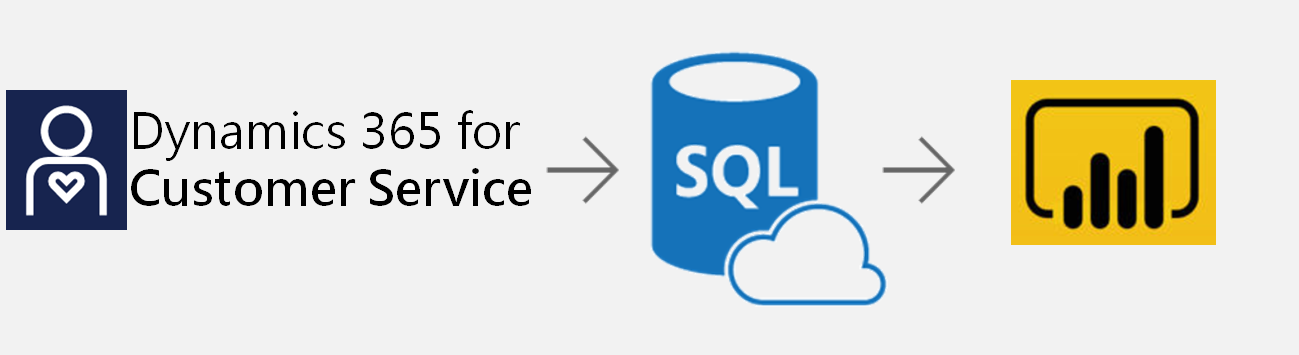
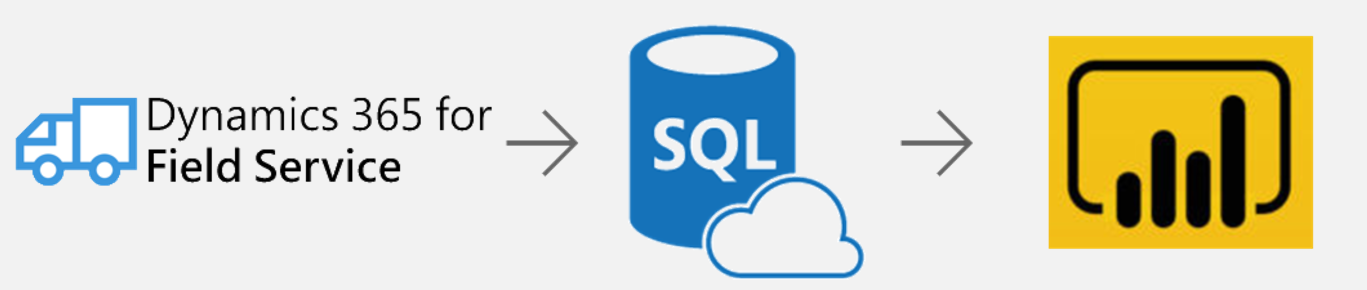
documentation

Changed region(s): [[0.0, 0.0621, 0.739, 0.9621], [0.7698, 0.1241, 0.9854, 0.869], [0.6774, 0.7759, 0.7082, 0.8379]]

diff --git a/Source/Apps/Microsoft/Released/Microsoft-D365FieldService/README.MD b/Source/Apps/Microsoft/Released/Microsoft-D365FieldService/README.MD
@@ -1,4 +1,4 @@
-# Power BI Dynamics 365 Customer Service Solution Template Documentation
+# Power BI Dynamics 365 Field Service Solution Template Documentation
 # Table of Contents
 1. [Introduction](#introduction)
 2. [Architecture](#architecture)
@@ -7,13 +7,13 @@
 5. [Technical Description](#technical-description)
 
 # Introduction
-Create a scalable, secure and flexible PowerBI dashboard on Dynamics 365 with the Power BI Customer Service solution template for Dynamics 365. The template creates everything required for an end-to-end analytics solution on your Dynamics 365 org including the data extraction, database constructs, and a Power BI report bound to the database. You can extend or customize the result to accommodate your own business requirements.
-The Customer Service solution template for Dynamics 365 is intended for customers who:
+Create a scalable, secure and flexible PowerBI dashboard on Dynamics 365 with the Power BI Field Service solution template for Dynamics 365. The template creates everything required for an end-to-end analytics solution on your Dynamics 365 org including the data extraction, database constructs, and a Power BI report bound to the database. You can extend or customize the result to accommodate your own business requirements.
+The Field Service solution template for Dynamics 365 is intended for customers who:
 -	Want to provision an analytics solution for tens or even thousands of users
 -	Want to deploy an analytics solution that scales with any size of Dynamics 365 instance from small to very large
 -	Want to be able to create data mashups on Dynamics 365 with data from their ERP, marketing, inventory management or other any other application
-The Customer Service solution template for Dynamics 365 is targeted at sales executives, managers and salespeople to forecast revenue, compare sales to the same period in the prior month, quarter or year, track sales against goals and monitor their pipeline .
-This document describes how to provision the Customer Service solution template for Dynamics 365, the architecture, and how to extend or customize the template. The audience for this document is intended to be the IT professional or administrator who implements and manages the solution template and/or the developer who extends or customizes the solution template.
+The Field Service solution template for Dynamics 365 is targeted at sales executives, managers and salespeople to forecast revenue, compare sales to the same period in the prior month, quarter or year, track sales against goals and monitor their pipeline .
+This document describes how to provision the Field Service solution template for Dynamics 365, the architecture, and how to extend or customize the template. The audience for this document is intended to be the IT professional or administrator who implements and manages the solution template and/or the developer who extends or customizes the solution template.
 Please contact <PBISolnTemplates@microsoft.com> for any questions or issues with this document.
 
 # Architecture
@@ -29,19 +29,20 @@ Data Export Services pushes new and changed records from Dynamics 365 to populat
 ![ImportDataOption](Resources/Images/ImportDataOption.png)
 
 
+
 # System Requirements
 Setting up the template requires the following:
 -	an Azure Subscription
 -	Power BI Desktop (latest version)
 -	Power BI Pro (to share the template with others)
--	Customer Service for Dynamics 365 2015 or later.
+-	Field Service for Dynamics 365 2015 or later.
 
-**You must have administrative permissions on your Dynamics 365 for Customer Service instance**. You can check whether you are a system administrator
+**You must have administrative permissions on your Dynamics 365 for Field Service instance**. You can check whether you are a system administrator
  [here](https://www.microsoft.com/en-us/dynamics/crm-customer-center/find-your-dynamics-365-administrator-or-support-person.aspx). 
 
 
 # How to Install
-Installing the Customer Service solution template for Dynamics 365 configures the following:
+Installing the Field Service solution template for Dynamics 365 configures the following:
 -	Data extraction
 -	Azure SQL Database
 -	Power BI Desktop file
@@ -49,7 +50,7 @@ The detailed description of each component of the architecture is below. To get 
 
 ![SolutionsMenu](Resources/Images/SolutionsMenu.png)
 
-From there, select the Customer Service for Dynamics 365 solution template and click the “Install now” button.
+From there, select the Field Service for Dynamics 365 solution template and click the “Install now” button.
 
 ## Step 1: Connect to Dynamics 365 Online
 
@@ -101,7 +102,7 @@ Review your selections. Enter a valid email address to receive a notification wh
 
 ![Customize](Resources/Images/Customize.png)
 
-The base Dynamics 365 URL is provided for links for each Customer Service object in the power BI reports.
+The base Dynamics 365 URL is provided for links for each Field Service object in the power BI reports.
 
 Provide an email to be contacted when the initial data publication is complete. There is no schedule to refresh data - it is replicated in realtime.
 
@@ -146,27 +147,25 @@ You can repeat the provisioning process or find the pbix files [here](https://gi
 This section describes each component of the solution template in detail.
 
 ## Data Extraction and Load
-The Customer Service solution template utilizes Data Export Services to replicate the following tables::
+The Field Service solution template utilizes Data Export Services to replicate the following tables:
+
 -	account
--	appointment
--   AttributeMetadata
--	contact
--	email
--	fax
--   GlobalOptionSetMetadata
--	incident
--	letter
--	msdyn_survey
--	msdyn_surveyresponse
--   msdyn_OptionSetMetadata
--   phonecall
--   slakpiinstance
--   StateMetadata
--   StatusMetadata
--   systeuser
--   TargetMetadata
+-	bookableresource
+-	bookableresourcebooking
+-	bookingstatus
+-	msdyn_customerasset
+-   msdyn_incidenttype
+-	msdyn_workorder
+-	msdyn_workorderproduct
+-	msdyn_workorderservice
+-	msdyn_workordertype
+-   msdyn_workordertype
+-   product
+-   resource
+-   service
+-   serviceappointment
 -   task
--   team
+-   territory
 
 The tables are replicated with custom fields already included.
 
@@ -206,7 +205,7 @@ The Date table is autogenerated with the installation of the solution template f
 </sub>
 
 
-# Customer Service for Dynamics 365 Pricing
+# Field Service for Dynamics 365 Pricing
 
 For a detailed breakdown of Azure Key Vault costs you can refer to the [Key Vault Pricing Calculator](https://azure.microsoft.com/en-us/pricing/details/key-vault/)
 
